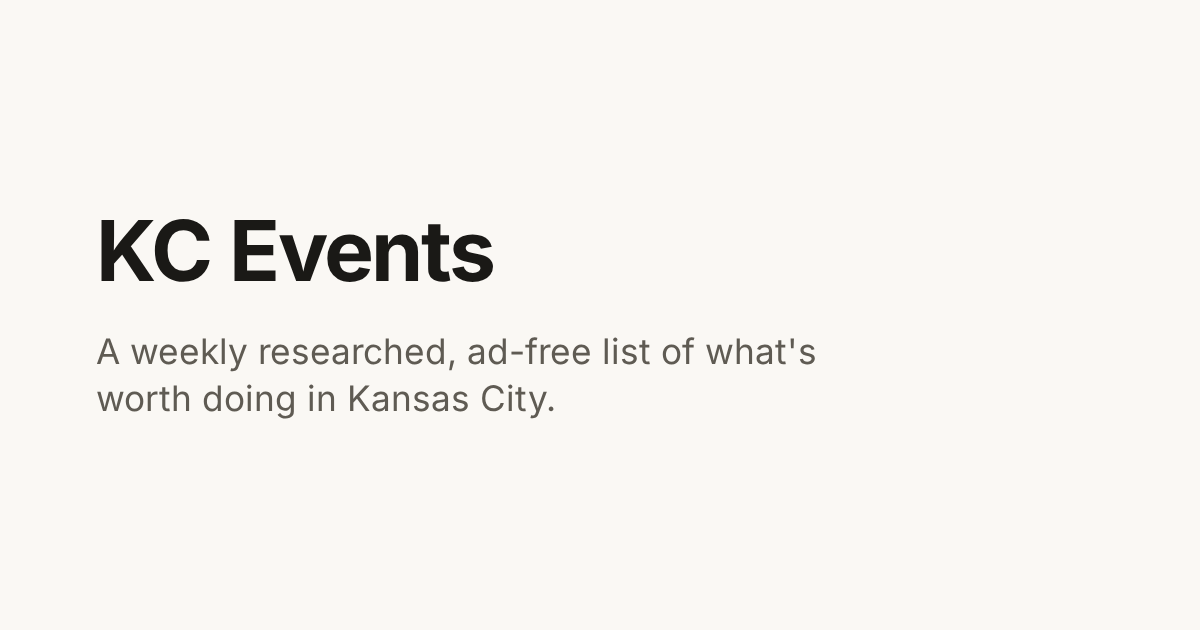
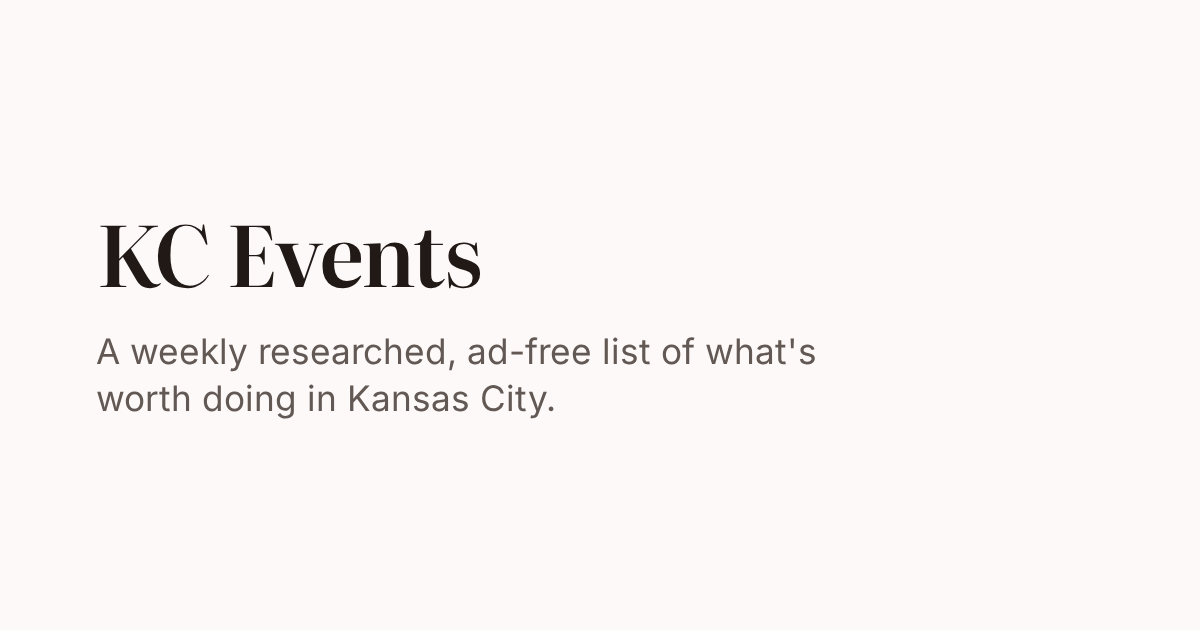
Polish the front page: copy, a voice line-height token, share card
The Always there note no longer says weekly (First Friday is monthly), the
later list's explorer link reads plainly, the why-line's line-height is a
token, and the share image is re-rendered in the new neutrals with the
name set in Literata.

Changed region(s): [[0.0617, 0.3317, 0.4317, 0.4524]]

diff --git a/site/scripts/share-image.html b/site/scripts/share-image.html
@@ -10,7 +10,12 @@
         font-weight: 100 900;
         src: url("../node_modules/@fontsource-variable/inter/files/inter-latin-wght-normal.woff2") format("woff2-variations");
       }
-      :root { --bg: #faf8f4; --fg: #1a1916; --fg-muted: #5f5b53; --text-2xl: 1.75rem; --text-xl: 1.375rem; }
+      @font-face {
+        font-family: "Literata Variable";
+        font-weight: 200 900;
+        src: url("../node_modules/@fontsource-variable/literata/files/literata-latin-opsz-normal.woff2") format("woff2-variations");
+      }
+      :root { --bg: oklch(0.985 0.004 45); --fg: oklch(0.22 0.012 45); --fg-muted: oklch(0.47 0.015 45); --text-2xl: 1.75rem; --text-xl: 1.375rem; }
       html, body { margin: 0; width: 1200px; height: 630px; }
       body {
         background: var(--bg);
@@ -23,7 +28,7 @@
         box-sizing: border-box;
         -webkit-font-smoothing: antialiased;
       }
-      h1 { margin: 0; font-size: calc(var(--text-2xl) * 3); font-weight: 700; letter-spacing: -0.025em; line-height: 1.05; }
+      h1 { margin: 0; font-family: "Literata Variable", Georgia, serif; font-size: calc(var(--text-2xl) * 3); font-weight: 600; letter-spacing: -0.02em; line-height: 1.05; }
       p { margin: 32px 0 0; max-width: 22em; font-size: calc(var(--text-xl) * 1.6); line-height: 1.35; color: var(--fg-muted); }
     </style>
   </head>

diff --git a/site/src/components/DontMissCard.svelte b/site/src/components/DontMissCard.svelte
@@ -42,7 +42,7 @@
   /* The save slot keeps its width before the button mounts, so the title never re-wraps when it appears. */
   .save { grid-area: save; align-self: start; min-width: 4.5rem; display: flex; justify-content: flex-end; }
   /* The why-line is the site's voice: the serif's text cut, a size under the title, the fullest colour on the card. */
-  .why { grid-area: why; margin-top: var(--space-2); font-family: var(--font-voice); font-size: var(--text-lg); line-height: 1.55; max-width: 38rem; }
+  .why { grid-area: why; margin-top: var(--space-2); font-family: var(--font-voice); font-size: var(--text-lg); line-height: var(--leading-voice); max-width: 38rem; }
   .meta {
     grid-area: meta; margin-top: var(--space-2);
     display: flex; flex-wrap: wrap; align-items: baseline; gap: var(--space-1) var(--space-3);

diff --git a/site/src/styles/tokens.css b/site/src/styles/tokens.css
@@ -37,7 +37,7 @@
   /* Weights by role: regular text, medium controls, strong titles and headings. */
   --weight-regular: 400; --weight-medium: 500; --weight-strong: 600;
   --tracking-display: -0.02em; --tracking-heading: -0.01em;
-  --leading-tight: 1.25; --leading: 1.5;
+  --leading-tight: 1.25; --leading: 1.5; --leading-voice: 1.55; /* the serif why-line, a touch looser */
   /* Space and shape */
   --space-1: 0.25rem; --space-2: 0.5rem; --space-3: 0.75rem; --space-4: 1rem; --space-6: 1.5rem; --space-8: 2rem; --space-12: 3rem; --space-16: 4rem;
   --measure: 42rem;

diff --git a/site/src/components/DontMissList.svelte b/site/src/components/DontMissList.svelte
@@ -47,7 +47,7 @@
             </li>
           {/each}
         </ul>
-        <p class="more"><a href="/explore?dontmiss=1">Every upcoming pick, with why, in the explorer</a></p>
+        <p class="more"><a href="/explore?dontmiss=1">All the picks, with why, in the explorer</a></p>
       {:else}
         {#each buckets[h] as event (event.id)}
           <DontMissCard {event} {today} />
